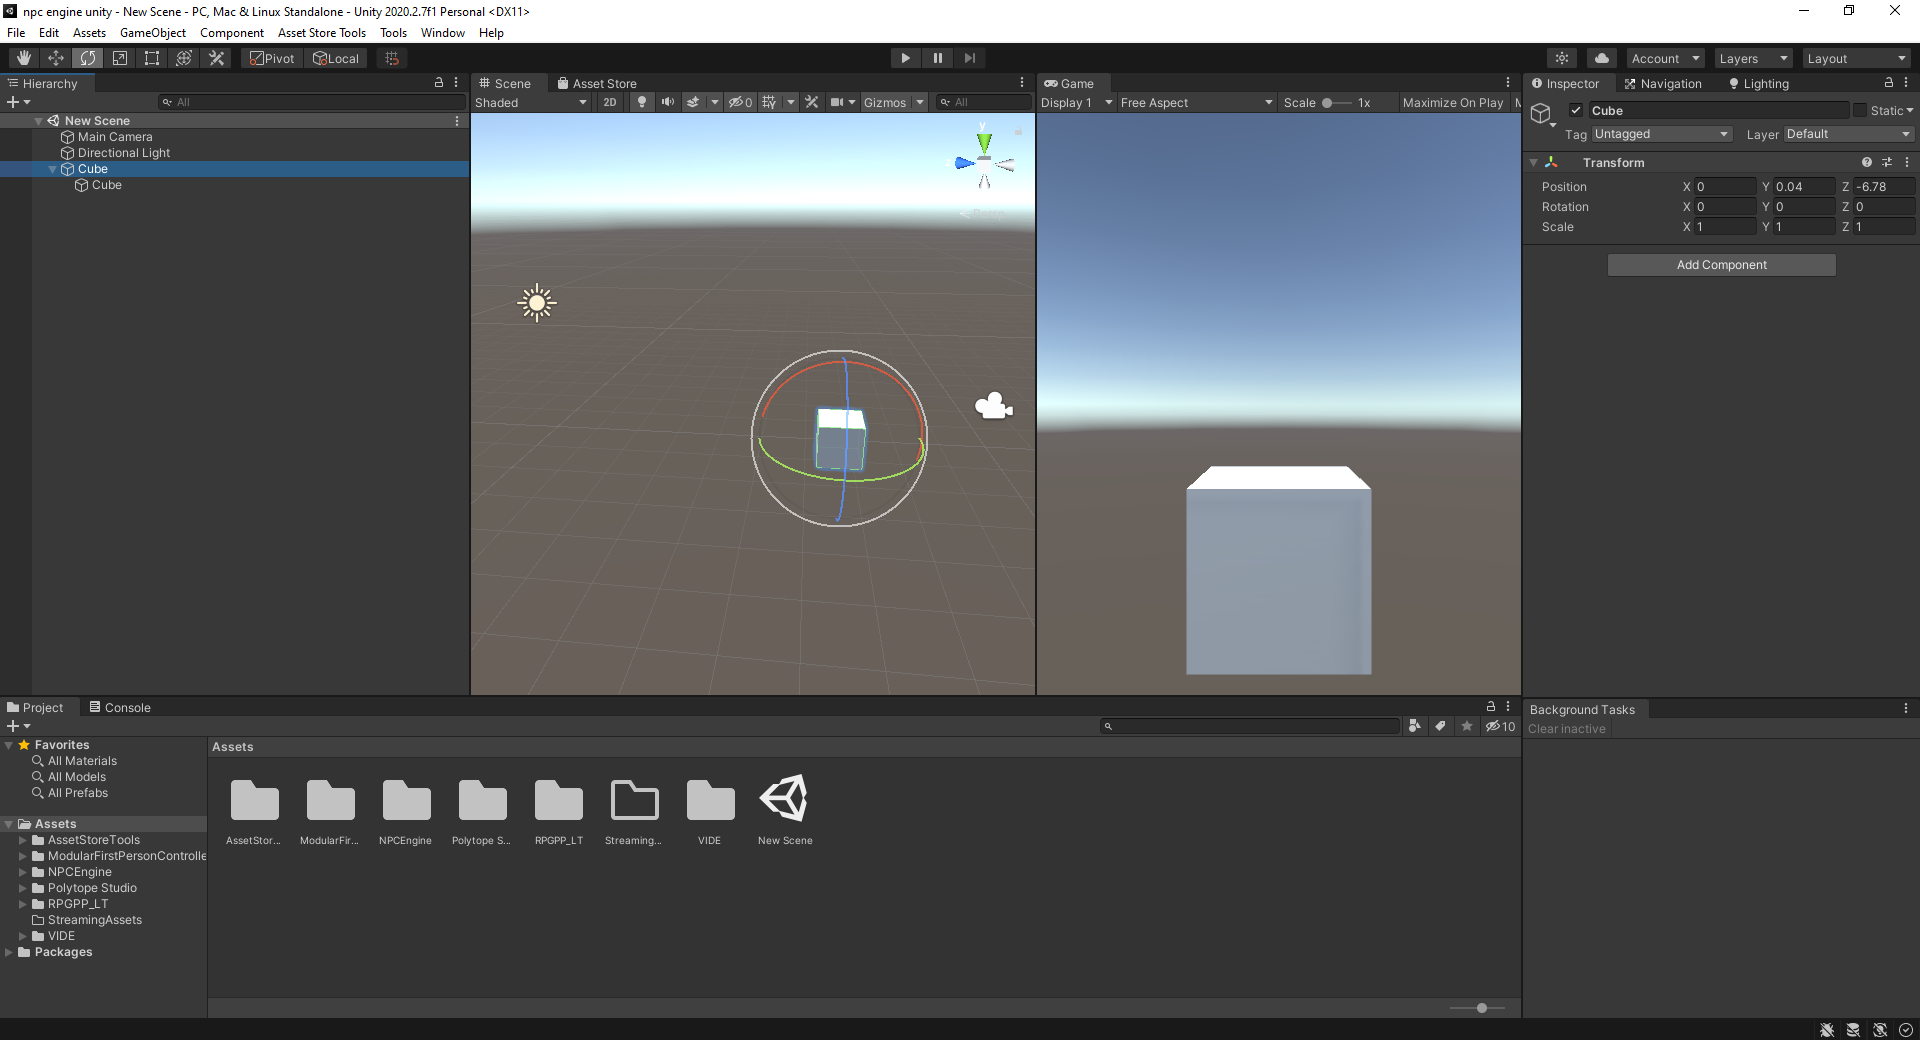
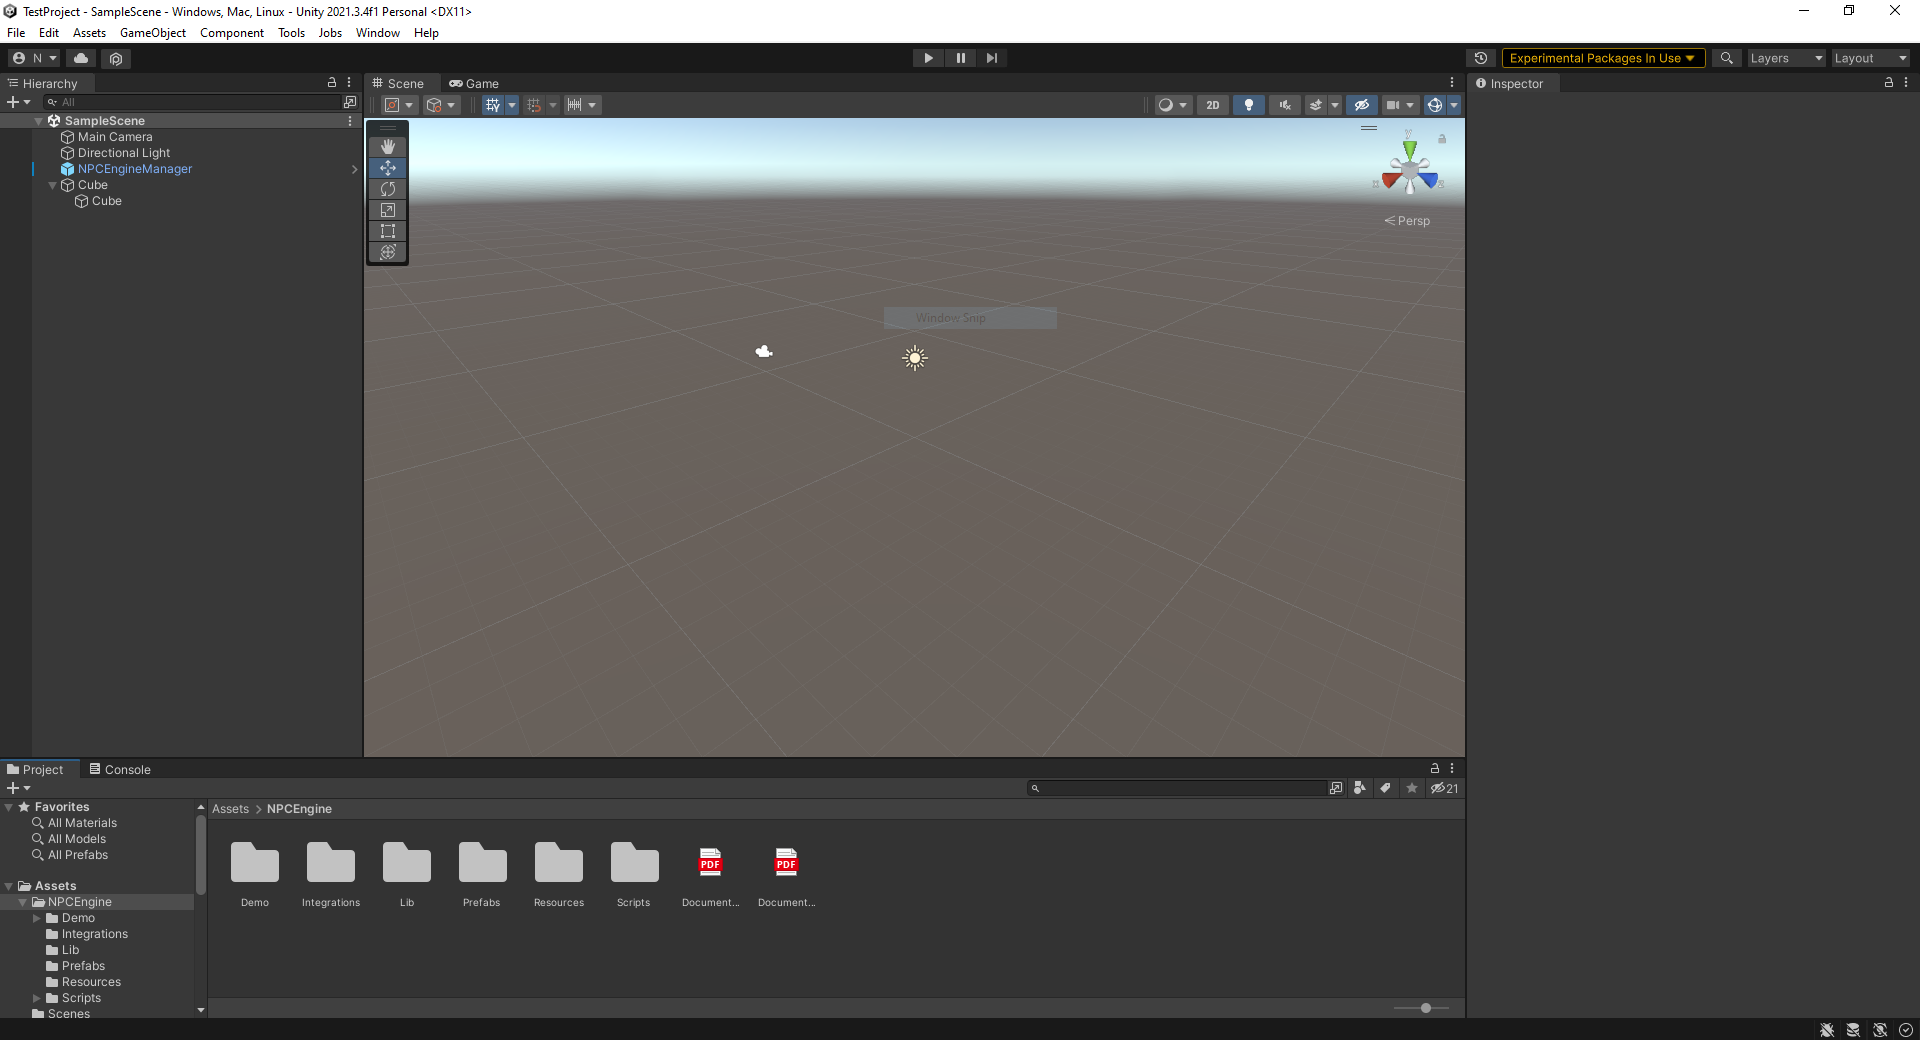
Update setup scene tutorial

diff --git a/Documentation/tutorials/scene_setup.md b/Documentation/tutorials/scene_setup.md
@@ -13,15 +13,16 @@ It's best to test that everything is setup correctly in the basic demo scene fir
 
 One of the main dependency is some sort of a dialogue tree system. To integrate any dialogue system with npc-engine you must implement [AbstractDialogueSystem](../api/NPCEngine.Components.AbstractDialogueSystem.yml) interface. We already provide integration with a free dialogue tree system called [VIDE Dialogues](https://assetstore.unity.com/packages/tools/ai/vide-dialogues-69932) and we are going to use it in this tutorial.
 
-## NPCEngineServer (NPCEngineManager prefab)
+Import it from `Assets/NPCEngine/Integrations/VIDE Dialogues Integration.unitypackage`
 
-NPCEngineServer is a singleton component that manages the npc-engine server lifetime and communication, it is required in every scene that uses npc-engine.
+## NPCEngineManager (NPCEngineManager prefab)
 
-It has a few useful properties that you can use to control how server is started, please refer to the [API](../api/NPCEngine.Server.NPCEngineServer.yml) for more details.
+NPCEngineManager is a singleton component that manages the npc-engine server lifetime and communication, it is required in every scene that uses npc-engine.
+
+It has a few useful properties that you can use to control how server is started, please refer to the [API](../api/NPCEngine.Components.NPCEngineManager.yml) for more details.
 
 **It's missing on the screenshots but please add it anyway :) Bellow is the screenshot how final scene hierarchy should look**
 
-![Final scene hierarchy](../resources/scene-setup-how-it-should-look.png)
 
 ## Character setup
 
@@ -29,7 +30,7 @@ In this section we will walk you through setting up a character in the scene.
 
 First let's add a character to the scene, we'll call him `cube`.
 
-![Text to speech](../resources/scene-setup-cube.png)
+![Empty Scene with cube](../resources/scene-setup-cube.png)
 
 The main npc-engine component for NPCs is [NonPlayerCharacter](../api/NPCEngine.Components.NonPlayerCharacter.yml), but if you will try adding it to the cube you will get an error that it requires AbstractDialogueSystem component that is abstract and cannot be instantiated.  
   
@@ -39,8 +40,9 @@ After that you can add NonPlayerCharacter component to the cube.
 
 ![NonPlayerCharacter](../resources/scene-setup-npc-component.PNG)
 
-Now, let's give our character a name, description and pick him a voice. 
+First we must create a character asset that holds name and persona of our character and assign it to the NonPlayerCharacter property.
 
+![Cube character](../resources/setup-scene-cube-character.png)
 ![Cube persona](../resources/setup-scene-cube-persona.png)
 
 Lets also add a dialogue tree for our character, NonPlayerCharacter will trigger speech recognition only if there is a players choice node active, otherwise player's speech will only trigger NPC speech generation with given static lines from the NPC dialogue nodes.
@@ -49,13 +51,35 @@ Lets just choose a random dialogue tree from the list of available ones.
 
 We also should create an [AudioSourceQueue](../api/NPCEngine.Utility.AudioSourceQueue.yml) component and add it to the NonPlayerCharacter.
 
-![Cube audio source](../resources/scene-setup-audio-source.PNG)
+This is the basics of setting up a non-player character in the scene without the UI except the generated audio.
 
+Now we can select it's voice and test-chat with it!
 
-This is the basics of setting up a non-player character in the scene without the UI except the generated audio. We will go over the UI in the [NonPlayerCharacter Callbacks for UI](#nonplayercharacter-callbacks-for-ui) section.
+We will go over the UI in the [NonPlayerCharacter Callbacks for UI](#nonplayercharacter-callbacks-for-ui) section.
   
 You can read about all the other NonPlayerCharacter parameters in the [API docs](../api/NPCEngine.Components.NonPlayerCharacter.yml). 
 
+## Testing
+
+### Starting NPC Engine server
+
+To test the character we must first start NPC Engine server and services. Go to NPCEngineManager inspector and press the big button.
+
+![Big Button](../resources/setup-scene-manager-start.PNG)
+
+Make sure that you have some services for text generation, TTS and semantic similarity, and that they are running.
+
+![Services](../resources/setup-scene-manager-started.PNG)
+
+### Testing character
+
+To test chat you must also provide two more scripted objects: `Character` that you would impersonate during test and a `Location` where the dialogue is happening.
+
+![Test Character and Location](../resources/setup-scene-cube-test-objects.PNG)
+
+Now you can test the character by interface that expands from `Test Chat`, `Test Voice` and `Test Similarity` sections on Non Player Character component.
+
+![Testing NPC](../resources/setup-scene-cube-testing.PNG)
 
 ## Player Character
 
@@ -63,29 +87,19 @@ Now it's time to set up the player character. Since there is no need for the pla
 
 First, let's add a [PlayerCharacter](../api/NPCEngine.Components.PlayerCharacter.yml) component to the camera object.
 
-![Player character](../resources/scene-setup-player.png)
-
-Except the familiar character name and persona parameters you might have noticed, there are a two more natural language parameters that you need to set: setting name and description. These describe the location of the character in the world for chatbot to use in the dialogue with the player. The reason it is not present in the NonPlayerCharacter component is that it is not a part of the NPC's state, but rather a property of the dialogue, so it is provided by the player character.
-
+You will notice that Player character has similar properties to NonPlayerCharacter `Test Chat` window. We can reuse our Sphere character and Void location for it.
 They are static in this tutorial, but they can be changed dynamically through scripts (e.g. as an event of collider trigger.)
 
 The next important parameter is the SpeechToText component, it is used to convert speech from the microphone to text. We recommend using [DictationRecognizerSTT](../api/NPCEngine.Components.DictationRecognizerSTT.yml) component for this purpose, but it requires a change to windows settings (Dictation permision in speech privacy settings in Settings->Privacy->Speech, inking & typing), please refer to the [documentation](../api/NPCEngine.Components.DictationRecognizerSTT.yml) for details 
 
-![Speech to text](../resources/scene-setup-stt.png)
+![Player character](../resources/scene-setup-player.png)
 
 At this point you should be able to talk to your character by saying something in the microphone. It's time to **test it**!
 
 **Make sure that our Cube NPC audio source is centered in the camera (It is checked to start a dialogue) and that it's closer than MaxRange parameter in Player Character component.**
 
-On start you should see console pop up if your NPCEngineServer has `Debug` flag enabled. This is the console of the npc-engine server. It contains a lot of useful information about the server messaging and what models are loaded. If the console shows errors please check [Troubleshooting](#troubleshooting) section or create a [github issue](https://github.com/npc-engine/npc-engine/issues/new/choose).
+If something does not work as expected on start you should enable `Debug Logs` and `Server Console` flags in NPCEngineConfig and restart inference server through NPCEngineManager. This will spawn console of the npc-engine server as well as provide message traces between server and Unity. It contains a lot of useful information about the server messaging and what models are loaded. If the console shows errors please check [Troubleshooting](#troubleshooting) section or create a [github issue](https://github.com/npc-engine/npc-engine/issues/new/choose).
 Before you say anything you should click on unity Game window so that it enters focus and make sure that the microphone is enabled. Focus is required by Windows STT services.
-
-After npc-engine intialization (Can be checked by NPCEngineServer.Instance.initialized flag), when you say something into your microphone you should see `hypothesis` and `result` logs in Unity console, as well as server logs showing messaging between npc-engine server and Unity.
-
-You should also hear Cube's replies to your speech.
-
-Here is how it should look like after start
-![Running npc-engine](../resources/scene-setup-testing.png)
 
 STT Restart errors will appear every time you change focus from the game window as STT fails at that point and is restarted when you focus on the game window again.
 
